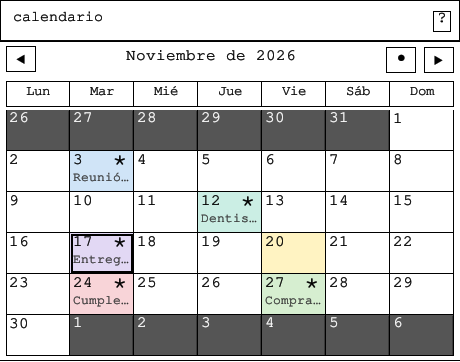
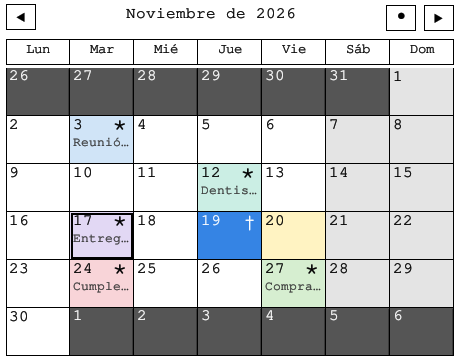
1
1

diff --git a/src/app.rs b/src/app.rs
@@ -78,7 +78,8 @@ pub const HELP_TEXT: &str = "Atajos de teclado (Linux / Windows)\n\
 • T: volver al mes actual.\n\
 • F1: abrir esta ayuda.\n\
 • Ctrl+S (en el editor): guardar sin cerrar.\n\
-• Esc (en el editor): guardar y cerrar.";
+• Esc (en el editor): guardar y cerrar.\n\
+• Ctrl+A (en el editor): seleccionar todo.";
 pub struct CalendarApp {
     note_manager: NoteManager,
     today: NaiveDate,
@@ -913,7 +914,7 @@ impl eframe::App for CalendarApp {
 }
 
 
-/// Estilo "máquina de escribir": blanco, tinta negra, ángulos rectos, y
+/// Estilo sobrio: blanco, tinta negra, ángulos rectos, y
 /// la fuente monoespaciada (Nimbus Mono, clon de Courier) para todo el texto.
 pub fn setup_style(ctx: &egui::Context) {
     let mut fonts = egui::FontDefinitions::default();

diff --git a/README.md b/README.md
@@ -2,14 +2,16 @@
 
 Calendario mensual con notas, escrito en Rust con
 [egui/eframe](https://github.com/emilk/egui). Port de `cal3.py` (Flet), para
-**Linux y Windows**. Estilo "máquina de escribir": fondo blanco, tinta negra,
-fuente monoespaciada y celdas en cuadrícula, como una tabla.
+**Linux, Windows y Android**. Fondo blanco, tinta negra, fuente monoespaciada
+y celdas en cuadrícula, como una tabla.
 
 ![Vista mensual](docs/calendario.png)
 
 ## Características
 
-- Vista mensual en cuadrícula, con los días de los meses vecinos en gris.
+- Vista mensual en cuadrícula, con los días de los meses vecinos en gris
+  oscuro y los sábados y domingos en gris claro.
+- El día actual se resalta en azul y lleva una daga `†`.
 - Cada día guarda una nota; las celdas con nota llevan una estrella `*` y
   muestran un resumen del texto.
 - **Clic derecho** en un día para pintarlo con uno de 8 colores suaves
@@ -18,6 +20,7 @@ fuente monoespaciada y celdas en cuadrícula, como una tabla.
   para insertar hora y fecha en la línea del cursor, casillas (`- [ ]`) y un
   botón `*` que alterna `*` → `•` → `►` → sin marcador.
 - Deshacer y rehacer los cambios guardados.
+- Ayuda de atajos con `F1` (en Android, con el botón `?`).
 - Tipografía Nimbus Mono (clon de Courier) incluida en `assets/`.
 
 | Colores del día | Editor de notas |
@@ -45,8 +48,13 @@ fuente monoespaciada y celdas en cuadrícula, como una tabla.
 | `Re Pág` / `Av Pág` | Mes anterior / siguiente |
 | `Enter` | Abrir la nota del día |
 | `T` | Volver a hoy |
+| `F1` | Ayuda de atajos |
+| `Ctrl+A` (editor) | Seleccionar todo el texto |
 | `Ctrl+S` (editor) | Guardar sin cerrar |
 | `Esc` (editor) | Guardar y cerrar |
+
+En Android los mismos atajos funcionan con un teclado físico, y el botón
+Atrás equivale a `Esc`.
 
 ## Compilar y ejecutar
 
@@ -96,3 +104,6 @@ Requiere `rustup target add aarch64-linux-android armv7-linux-androideabi`,
 `cargo install cargo-apk --locked` y el SDK/NDK de Android en `~/Android/sdk`.
 Las notas se guardan en `Android/data/com.carlosfaz.cal3rust/files/`. En el
 teléfono, el clic derecho (pintar un día) es una pulsación larga.
+
+`vendor/winit` es una copia de `winit` 0.30 con un parche para Android
+(modificadores del teclado y botón Atrás); ver `vendor/winit/PATCH.md`.
